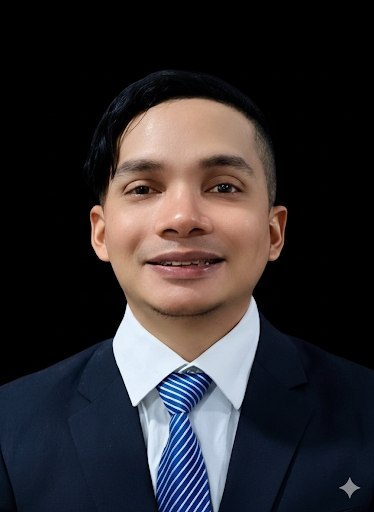
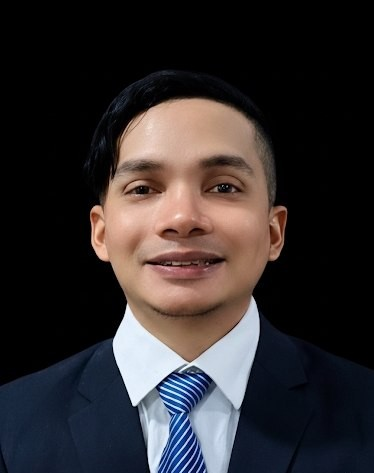
feat: vitaminizar Home con pestañas animadas, stack, trayectoria y perfil real

diff --git a/src/pages/Home.tsx b/src/pages/Home.tsx
@@ -1,141 +1,250 @@
-import React from 'react';
+import React, { useState, useEffect } from 'react';
 import ProjectCard from '../components/ProjectCard';
 import frontMatter from 'front-matter';
 import { useToast } from '../context/ToastContext';
 
-// 1. Vite lee TODOS los archivos .md en crudo (raw) de forma síncrona (eager)
+// Extraemos la data de los proyectos
 const mdFiles = import.meta.glob('../content/proyectos/*.md', { query: '?raw', eager: true });
-
-// 2. Transformamos esos archivos en un arreglo de objetos para React
 const projects = Object.entries(mdFiles).map(([path, module]: [string, any]) => {
-  // Extraemos el nombre del archivo para usarlo como ruta (ej: crm-core-api.md -> crm-core-api)
   const slug = path.split('/').pop()?.replace('.md', '');
-  
-  // Extraemos las variables que pusiste entre los "---" en el archivo .md
-  const { attributes } = frontMatter(module.default as string);
-
-  return {
-    slug,
-    ...(attributes as any) // Título, descripción, techStack, etc.
-  };
+  const { attributes } = frontMatter(module.default);
+  return { slug, ...(attributes as any) };
 });
 
 export default function Home() {
-  const { showToast } = useToast(); 
-  return (
-    <>
-      
+  const [activeTab, setActiveTab] = useState('Proyectos');
+  const { showToast } = useToast();
 
-      {/* MAIN CONTENT */}
-      <main className="w-full max-w-[800px] p-4 md:p-6 mt-16 px-6 mx-auto animate-page-enter">
-        
-        {/* HERO INFO */}
-        <section className="flex justify-between items-start w-full mb-6">
-          <div className="flex flex-col gap-0.5 min-w-0">
-            <h1 className="text-[20px] md:text-[24px] font-bold tracking-tight text-white leading-tight">
+  useEffect(() => {
+    window.scrollTo(0, 0);
+  }, []);
+
+  const tabs = ['Proyectos', 'Stack Técnico', 'Trayectoria', 'Formación'];
+
+  // --- RENDERIZADORES DE PESTAÑAS ---
+
+  const renderProyectos = () => (
+    <div className="grid grid-cols-1 md:grid-cols-2 gap-4">
+      {projects.map((project) => (
+        <ProjectCard 
+          key={project.slug}
+          title={project.title} 
+          description={project.description}
+          techStack={project.techStack || []}
+          slug={project.slug}
+          imageUrl={project.imageUrl}
+          wireframeType={project.wireframeType}
+        />
+      ))}
+    </div>
+  );
+
+  const renderStack = () => (
+    <div className="grid grid-cols-1 md:grid-cols-2 gap-6">
+      {/* Frontend */}
+      <div className="bg-zinc-900/30 border border-zinc-800/80 p-6 rounded-xl hover:border-zinc-700/80 transition-colors">
+        <h3 className="text-white font-semibold text-[14px] mb-4 flex items-center gap-2">
+          <svg className="text-blue-500" width="18" height="18" viewBox="0 0 24 24" fill="none" stroke="currentColor" strokeWidth="2"><polygon points="12 2 2 7 12 12 22 7 12 2"></polygon><polyline points="2 17 12 22 22 17"></polyline><polyline points="2 12 12 17 22 12"></polyline></svg>
+          Desarrollo Frontend
+        </h3>
+        <div className="flex flex-wrap gap-2">
+          {['JavaScript (ES6+)', 'React', 'Tailwind CSS', 'Vite', 'HTML5 & CSS3'].map(tech => (
+            <span key={tech} className="px-3 py-1.5 bg-zinc-800/50 border border-zinc-700/50 rounded-md text-[12px] text-zinc-300">{tech}</span>
+          ))}
+        </div>
+      </div>
+
+      {/* Backend & DB */}
+      <div className="bg-zinc-900/30 border border-zinc-800/80 p-6 rounded-xl hover:border-zinc-700/80 transition-colors">
+        <h3 className="text-white font-semibold text-[14px] mb-4 flex items-center gap-2">
+          <svg className="text-blue-500" width="18" height="18" viewBox="0 0 24 24" fill="none" stroke="currentColor" strokeWidth="2"><ellipse cx="12" cy="5" rx="9" ry="3"></ellipse><path d="M21 12c0 1.66-4 3-9 3s-9-1.34-9-3"></path><path d="M3 5v14c0 1.66 4 3 9 3s9-1.34 9-3V5"></path></svg>
+          Backend & Base de Datos
+        </h3>
+        <div className="flex flex-wrap gap-2">
+          {['Node.js', 'Express', 'PostgreSQL', 'Consultas Nativas (SQL)', 'API REST'].map(tech => (
+            <span key={tech} className="px-3 py-1.5 bg-zinc-800/50 border border-zinc-700/50 rounded-md text-[12px] text-zinc-300">{tech}</span>
+          ))}
+        </div>
+      </div>
+
+      {/* Herramientas */}
+      <div className="bg-zinc-900/30 border border-zinc-800/80 p-6 rounded-xl hover:border-zinc-700/80 transition-colors md:col-span-2">
+        <h3 className="text-white font-semibold text-[14px] mb-4 flex items-center gap-2">
+          <svg className="text-blue-500" width="18" height="18" viewBox="0 0 24 24" fill="none" stroke="currentColor" strokeWidth="2"><rect x="4" y="4" width="16" height="16" rx="2" ry="2"></rect><rect x="9" y="9" width="6" height="6"></rect><line x1="9" y1="1" x2="9" y2="4"></line><line x1="15" y1="1" x2="15" y2="4"></line><line x1="9" y1="20" x2="9" y2="23"></line><line x1="15" y1="20" x2="15" y2="23"></line><line x1="20" y1="9" x2="23" y2="9"></line><line x1="20" y1="14" x2="23" y2="14"></line><line x1="1" y1="9" x2="4" y2="9"></line><line x1="1" y1="14" x2="4" y2="14"></line></svg>
+          Infraestructura & OS
+        </h3>
+        <div className="flex flex-wrap gap-2">
+          {['Linux Ubuntu', 'Git', 'GitHub (Pages & Actions)', 'Moodle LMS', 'CPanel'].map(tech => (
+            <span key={tech} className="px-3 py-1.5 bg-zinc-800/50 border border-zinc-700/50 rounded-md text-[12px] text-zinc-300">{tech}</span>
+          ))}
+        </div>
+      </div>
+    </div>
+  );
+
+  const renderTrayectoria = () => (
+    <div className="relative border-l border-zinc-800 ml-3 pl-8 py-2 space-y-10">
+      
+      {/* Item 1 */}
+      <div className="relative">
+        <div className="absolute -left-[37px] top-1 w-[11px] h-[11px] rounded-full bg-blue-500 ring-4 ring-zinc-950"></div>
+        <h3 className="text-white font-bold text-[15px]">Desarrollador Web Freelance</h3>
+        <p className="text-blue-400 text-[12px] font-medium mb-3">Clinmedia & Newe Marketing • Remoto</p>
+        <p className="text-zinc-400 text-[14px] leading-relaxed">
+          Construcción, despliegue y gestión diaria de múltiples sitios web de alto volumen para agencias de marketing digital. Optimización de tiempos de entrega sin sacrificar semántica, rendimiento ni diseño responsivo.
+        </p>
+      </div>
+
+      {/* Item 2 */}
+      <div className="relative">
+        <div className="absolute -left-[37px] top-1 w-[11px] h-[11px] rounded-full bg-zinc-700 ring-4 ring-zinc-950"></div>
+        <h3 className="text-white font-bold text-[15px]">Analista de HelpDesk & Soporte TI</h3>
+        <p className="text-zinc-500 text-[12px] font-medium mb-3">Avior Airlines • Ene 2020 - Presente</p>
+        <p className="text-zinc-400 text-[14px] leading-relaxed">
+          Soporte técnico de misión crítica en entorno corporativo. Resolución de incidencias de infraestructura, mantenimiento de equipos y asistencia a usuarios garantizando la continuidad operativa de la aerolínea.
+        </p>
+      </div>
+
+      {/* Item 3 */}
+      <div className="relative">
+        <div className="absolute -left-[37px] top-1 w-[11px] h-[11px] rounded-full bg-zinc-800 ring-4 ring-zinc-950"></div>
+        <h3 className="text-white font-bold text-[15px]">Agente de Call Center</h3>
+        <p className="text-zinc-500 text-[12px] font-medium mb-3">Avior Airlines • Abr 2018 - Ene 2020</p>
+        <p className="text-zinc-400 text-[14px] leading-relaxed">
+          Atención directa al cliente y manejo de sistemas de reservas. Esta experiencia forjó mi entendimiento profundo de la operación interna antes de transicionar al departamento de TI en 2020.
+        </p>
+      </div>
+    </div>
+  );
+
+  const renderFormacion = () => (
+    <div className="space-y-6">
+      
+      <div className="flex gap-4 p-5 rounded-xl border border-zinc-800/60 bg-zinc-900/20 hover:bg-zinc-900/40 transition-colors">
+        <div className="hidden sm:flex mt-1 w-10 h-10 rounded-full bg-blue-500/10 border border-blue-500/20 items-center justify-center text-blue-400 shrink-0">
+          <svg width="18" height="18" viewBox="0 0 24 24" fill="none" stroke="currentColor" strokeWidth="2"><path d="M22 10v6M2 10l10-5 10 5-10 5z"></path><path d="M6 12v5c3 3 9 3 12 0v-5"></path></svg>
+        </div>
+        <div>
+          <h3 className="text-white font-bold text-[15px]">Máster en Full Stack Development</h3>
+          <p className="text-zinc-500 text-[12px] font-medium mb-2">Universidad Central de Venezuela (UCV) • Oct 2025</p>
+          <p className="text-zinc-400 text-[14px]">Titulación académica oficial validando competencias en arquitecturas frontend y backend, bases de datos y despliegue de aplicaciones.</p>
+        </div>
+      </div>
+
+      <div className="flex gap-4 p-5 rounded-xl border border-zinc-800/60 bg-zinc-900/20 hover:bg-zinc-900/40 transition-colors">
+        <div className="hidden sm:flex mt-1 w-10 h-10 rounded-full bg-zinc-800 border border-zinc-700 items-center justify-center text-zinc-400 shrink-0">
+          <svg width="18" height="18" viewBox="0 0 24 24" fill="none" stroke="currentColor" strokeWidth="2"><rect x="3" y="3" width="18" height="18" rx="2" ry="2"></rect><line x1="3" y1="9" x2="21" y2="9"></line><line x1="9" y1="21" x2="9" y2="9"></line></svg>
+        </div>
+        <div>
+          <h3 className="text-white font-bold text-[15px]">Ingeniería de Sistemas</h3>
+          <p className="text-zinc-500 text-[12px] font-medium mb-2">Titulación Profesional</p>
+          <p className="text-zinc-400 text-[14px]">Formación base en lógica de programación, arquitectura de computadores, cálculo y resolución algorítmica de problemas.</p>
+        </div>
+      </div>
+
+      <div className="flex gap-4 p-5 rounded-xl border border-zinc-800/60 bg-zinc-900/20 hover:bg-zinc-900/40 transition-colors">
+        <div className="hidden sm:flex mt-1 w-10 h-10 rounded-full bg-zinc-800 border border-zinc-700 items-center justify-center text-zinc-400 shrink-0">
+          <svg width="18" height="18" viewBox="0 0 24 24" fill="none" stroke="currentColor" strokeWidth="2"><circle cx="12" cy="12" r="10"></circle><polyline points="12 6 12 12 16 14"></polyline></svg>
+        </div>
+        <div>
+          <h3 className="text-white font-bold text-[15px]">Especializaciones & Bootcamps</h3>
+          <p className="text-zinc-500 text-[12px] font-medium mb-2">Educación Continua • 2025 - 2026</p>
+          <ul className="text-zinc-400 text-[13px] list-disc ml-4 space-y-1">
+            <li>Workana The Accelerator (Escalabilidad de negocios freelance - Mar 2026).</li>
+            <li>Masterclass Udemy: JavaScript Moderno & Especificaciones Avanzadas.</li>
+            <li>Masterclass Udemy: Node.js, React & Arquitecturas Web.</li>
+          </ul>
+        </div>
+      </div>
+
+    </div>
+  );
+
+  return (
+    <main className="w-full max-w-[800px] p-4 md:p-6 mt-16 px-6 mx-auto animate-page-enter">
+      
+      {/* SECCIÓN DE PERFIL Y BOTONES (Se mantiene igual) */}
+      <section className="mb-12">
+        <div className="flex flex-col md:flex-row md:items-center gap-6 md:gap-8 mb-6">
+          <div className="w-24 h-24 rounded-full overflow-hidden border-2 border-zinc-800 bg-zinc-900 flex-shrink-0 relative group">
+            <img 
+              src="https://github.com/luisjcm.png" 
+              alt="Luis Jesus Curbata" 
+              className="w-full h-full object-cover transition-transform duration-500 group-hover:scale-110"
+              onError={(e) => {
+                e.currentTarget.src = "https://ui-avatars.com/api/?name=Luis+Curbata&background=0D0D0E&color=3b82f6";
+              }}
+            />
+            <div className="absolute inset-0 ring-1 ring-inset ring-white/10 rounded-full"></div>
+          </div>
+          
+          <div className="flex flex-col">
+            <h1 className="text-3xl font-bold text-white tracking-tight mb-2">
               Luis Jesus Curbata
             </h1>
-            <div className="flex items-center gap-2 mt-1">
-              <span className="text-[15px] text-zinc-500">luisjcm</span>
-              <button className="group flex items-center gap-1.5 bg-blue-500/10 text-blue-400 text-[11px] px-2.5 py-0.5 rounded-full border border-blue-500/20 font-medium transition-all duration-300 ease-out hover:bg-blue-500/20 hover:border-blue-500/40 hover:scale-105 active:scale-95 active:bg-blue-500/30">
-                <span className="relative flex h-2 w-2">
-                  <span className="animate-ping absolute inline-flex h-full w-full rounded-full bg-blue-400 opacity-75"> </span>
-                  <span className="relative inline-flex rounded-full h-2 w-2 bg-blue-500"></span>
-                </span>
-                Disponible para Proyectos
-              </button>
-            </div>
-          </div>
-
-          <div className="w-[70px] h-[70px] md:w-[84px] md:h-[84px] rounded-full border border-zinc-800 overflow-hidden bg-zinc-900 flex-shrink-0">
-            <img src="/src/assets/perfil.jpg" alt="Luis Jesus" className="w-full h-full object-cover" />
-          </div>
-        </section>
-
-        {/* BIO & DATA */}
-        <section className="flex flex-col gap-1.5 mt-4 text-[14px]">
-          <div className="flex items-center gap-3 text-zinc-200">
-            <svg xmlns="http://www.w3.org/2000/svg" width="18" height="18" viewBox="0 0 24 24" fill="none" stroke="currentColor" strokeWidth="2" strokeLinecap="round" strokeLinejoin="round" className="text-zinc-500 flex-shrink-0"><circle cx="12" cy="12" r="10"/><path d="M2 12h20"/><path d="M12 2a15.3 15.3 0 0 1 4 10 15.3 15.3 0 0 1-4 10 15.3 15.3 0 0 1-4-10 15.3 15.3 0 0 1 4-10z"/></svg>
-            <p>Venezolano</p>
-          </div>
-          <div className="flex items-center gap-3 text-zinc-200">
-            <svg xmlns="http://www.w3.org/2000/svg" width="18" height="18" viewBox="0 0 24 24" fill="none" stroke="currentColor" strokeWidth="2" strokeLinecap="round" strokeLinejoin="round" className="text-zinc-500 flex-shrink-0"><polyline points="16 18 22 12 16 6"/><polyline points="8 6 2 12 8 18"/></svg>
-            <p>Ingeniero de Sistemas + Desarrollador Web Freelance</p>
-          </div>
-          <div className="flex items-start gap-3 text-zinc-200">
-            <svg xmlns="http://www.w3.org/2000/svg" width="18" height="18" viewBox="0 0 24 24" fill="none" stroke="currentColor" strokeWidth="2" strokeLinecap="round" strokeLinejoin="round" className="text-zinc-500 flex-shrink-0 mt-1"><rect width="20" height="14" x="2" y="3" rx="2"/><line x2="2" x1="22" y2="20" y1="20"/></svg>
-            <p className="leading-relaxed flex-1">
-              Analista de HelpDesk y Soporte Técnico IT en Avior Airlines
-            </p>
-          </div>
-          <div className="flex items-center gap-3 text-zinc-200">
-            <svg xmlns="http://www.w3.org/2000/svg" width="18" height="18" viewBox="0 0 24 24" fill="none" stroke="currentColor" strokeWidth="2" strokeLinecap="round" strokeLinejoin="round" className="text-zinc-500 flex-shrink-0"><path d="m13 2-2 10h8l-2 10"/></svg>
-            <p>Apasionado por crear experiencias web modernas y eficientes, mientras me encuentro en constante aprendizaje para mejorar mis habilidades.</p>
-          </div>
-          <div className="flex items-center gap-4 text-zinc-400 text-[13px] leading-relaxed ml-1 antialiased tracking-wide mt-1">
-            <div className="flex items-center gap-2 group/loc transition-colors hover:text-zinc-300">
-              <svg width="14" height="14" viewBox="0 0 24 24" fill="none" stroke="currentColor" strokeWidth="2" className="text-zinc-500 group-hover/loc:text-blue-400 transition-colors"><path d="M21 10c0 7-9 13-9 13s-9-6-9-13a9 9 0 0 1 18 0z"/><circle cx="12" cy="10" r="3"/></svg>
-              <span>Barcelona, VZ • <span className="opacity-70">GMT-4</span></span>
-            </div>
-          </div>
-        </section>
-
-        {/* BUTTONS */}
-        <div className="flex flex-col gap-6 mt-8">
-          <div className="flex items-center gap-3">
-            <a href="https://wa.me/584248887150?text=Hola%20Luis,%20vi%20tu%20portafolio%20y%20me%20gustaría%20contactarte" target="_blank" rel="noopener noreferrer" className="group relative flex-1 max-w-[180px] py-2.5 bg-white/5 border border-white/10 rounded-[10px] font-semibold text-white text-[13px] overflow-hidden transition-all duration-300 hover:border-blue-500/50 hover:bg-blue-500/5 text-center backdrop-blur-sm active:scale-95 no-underline">
-              <div className="absolute inset-0 bg-gradient-to-r from-transparent via-blue-400/20 to-transparent -translate-x-full group-hover:translate-x-full transition-transform duration-1000"></div>
-              <span className="relative flex items-center justify-center gap-2">
-                <svg width="14" height="14" viewBox="0 0 24 24" fill="none" stroke="currentColor" strokeWidth="2.5" className="text-blue-400"><path d="M22 16.92v3a2 2 0 0 1-2.18 2 19.79 19.79 0 0 1-8.63-3.07 19.5 19.5 0 0 1-6-6 19.79 19.79 0 0 1-3.07-8.67A2 2 0 0 1 4.11 2h3a2 2 0 0 1 2 1.72 12.84 12.84 0 0 0 .7 2.81 2 2 0 0 1-.45 2.11L8.09 9.91a16 16 0 0 0 6 6l1.27-1.27a2 2 0 0 1 2.11-.45 12.84 12.84 0 0 0 2.81.7A2 2 0 0 1 22 16.92z"/></svg>
-                Contactar
+            <div className="flex flex-wrap items-center gap-3 text-sm text-zinc-400">
+              <span className="flex items-center gap-1.5 bg-zinc-900/50 px-2 py-1 rounded-md border border-zinc-800/80">
+                <span className="w-1.5 h-1.5 rounded-full bg-blue-500 animate-pulse"></span>
+                @luisjcm
               </span>
-            </a>
-
-            <button className="group flex-1 max-w-[150px] py-2.5 bg-zinc-900/50 border border-zinc-800 rounded-[10px] font-medium text-zinc-400 text-[10px] transition-all duration-300 hover:border-zinc-600 hover:bg-zinc-800 hover:text-white active:scale-95 flex items-center justify-center gap-2" onClick={() => showToast("El currículum estará disponible pronto. ¡En construcción!", "warning")}>
-              <svg width="14" height="14" viewBox="0 0 24 24" fill="none" stroke="currentColor" strokeWidth="2.5" strokeLinecap="round" strokeLinejoin="round" className="text-zinc-500 group-hover:text-white transition-colors"><path d="M14 2H6a2 2 0 0 0-2 2v16a2 2 0 0 0 2 2h12a2 2 0 0 0 2-2V8z"></path><polyline points="14 2 14 8 20 8"></polyline><line x1="16" y1="13" x2="8" y2="13"></line><line x1="16" y1="17" x2="8" y2="17"></line><polyline points="10 9 9 9 8 9"></polyline></svg>
-              <span>Descargar CV</span>
-            </button>
-
-            <div className="flex gap-2">
-              <a href="https://linkedin.com/in/luisjcm" target="_blank" title="LinkedIn Profesional" rel="noopener noreferrer" className="p-2.5 bg-white/5 border border-white/10 rounded-[10px] text-zinc-400 hover:text-white hover:border-white/20 transition-all active:scale-90">
-                <svg width="18" height="18" viewBox="0 0 24 24" fill="none" stroke="currentColor" strokeWidth="2"><path d="M16 8a6 6 0 0 1 6 6v7h-4v-7a2 2 0 0 0-2-2 2 2 0 0 0-2 2v7h-4v-7a6 6 0 0 1 6-6z"/><rect x="2" y="9" width="4" height="12"/><circle cx="4" cy="4" r="2"/></svg>
-              </a>
-              <a href="https://github.com/luisjcm" target="_blank" title="GitHub Repositorios" rel="noopener noreferrer" className="p-2.5 bg-white/5 border border-white/10 rounded-[10px] text-zinc-400 hover:text-white hover:border-white/20 transition-all active:scale-90">
-                <svg width="18" height="18" viewBox="0 0 24 24" fill="none" stroke="currentColor" strokeWidth="2"><path d="M9 19c-5 1.5-5-2.5-7-3m14 6v-3.87a3.37 3.37 0 0 0-.94-2.61c3.14-.35 6.44-1.54 6.44-7A5.44 5.44 0 0 0 20 4.77 5.07 5.07 0 0 0 19.91 1S18.73.65 16 2.48a13.38 13.38 0 0 0-7 0C6.27.65 5.09 1 5.09 1A5.07 5.07 0 0 0 5 4.77a5.44 5.44 0 0 0-1.5 3.78c0 5.42 3.3 6.61 6.44 7A3.37 3.37 0 0 0 9 18.13V22"/></svg>
-              </a>
+              <span className="hidden md:block text-zinc-700">•</span>
+              <span className="flex items-center gap-1.5">
+                <svg width="14" height="14" viewBox="0 0 24 24" fill="none" stroke="currentColor" strokeWidth="2"><path d="M21 10c0 7-9 13-9 13s-9-6-9-13a9 9 0 0 1 18 0z"></path><circle cx="12" cy="10" r="3"></circle></svg>
+                Barcelona, VZ
+              </span>
+              <span className="hidden md:block text-zinc-700">•</span>
+              <span className="flex items-center gap-1.5">
+                <svg width="14" height="14" viewBox="0 0 24 24" fill="none" stroke="currentColor" strokeWidth="2"><rect x="2" y="3" width="20" height="14" rx="2" ry="2"></rect><line x1="8" y1="21" x2="16" y2="21"></line><line x1="12" y1="17" x2="12" y2="21"></line></svg>
+                6 Años Experiencia TI
+              </span>
             </div>
           </div>
         </div>
 
-        {/* NAVIGATION TABS */}
-        <nav className="flex w-full mt-8 border-b border-zinc-800">
-          <button className="flex-1 pb-3 text-[12px] md:text-[15px] font-semibold text-white border-b border-white whitespace-nowrap">Proyectos</button>
-          <button className="flex-1 pb-3 text-[12px] md:text-[15px] font-semibold text-zinc-500 hover:text-zinc-300 transition-colors whitespace-nowrap">Stack Técnico</button>
-          <button className="flex-1 pb-3 text-[12px] md:text-[15px] font-semibold text-zinc-500 hover:text-zinc-300 transition-colors whitespace-nowrap">Trayectoria</button>
-          <button className="flex-1 pb-3 text-[12px] md:text-[15px] font-semibold text-zinc-500 hover:text-zinc-300 transition-colors whitespace-nowrap">Formación</button>
-        </nav>
+        <p className="text-zinc-400 text-[15px] leading-relaxed max-w-2xl mb-8">
+          Ingeniero de Sistemas y Desarrollador Web. Fusionando el rigor operativo del soporte técnico de misión crítica con la creación de interfaces escalables y arquitecturas backend en el ecosistema JavaScript.
+        </p>
 
-        {/* CONTENT WRAPPER */}
-        <div className="relative w-full mt-8 overflow-hidden">
-          <div className="w-full px-2">
-             {/* Grid de Proyectos Dinámico */}
-             <div className="grid grid-cols-1 md:grid-cols-2 gap-4">
-                {projects.map((project) => (
-                  <ProjectCard 
-                    key={project.slug}
-                    title={project.title} 
-                    description={project.description}
-                    techStack={project.techStack || []}
-                    slug={project.slug}
-                    imageUrl={project.imageUrl}
-                    wireframeType={project.wireframeType}
-                  />
-                ))}
-             </div>
-          </div>
+        <div className="flex items-center gap-3">
+          <a href="/contacto" className="px-5 py-2.5 bg-white text-black font-semibold text-[13px] rounded-lg hover:bg-zinc-200 transition-colors active:scale-95 flex items-center gap-2">
+            Contactar
+          </a>
+          <button 
+            onClick={() => showToast("El currículum estará disponible pronto. ¡En construcción!", "warning")}
+            className="px-5 py-2.5 bg-zinc-900/50 border border-zinc-800 text-zinc-300 font-semibold text-[13px] rounded-lg hover:bg-zinc-800 hover:text-white transition-colors active:scale-95 flex items-center gap-2"
+          >
+            Descargar CV
+          </button>
         </div>
-      </main>
+      </section>
 
-    </>
+      {/* TABS DE NAVEGACIÓN */}
+      <nav className="flex gap-6 border-b border-zinc-800/80 mb-8 overflow-x-auto scrollbar-hide">
+        {tabs.map((tab) => (
+          <button
+            key={tab}
+            onClick={() => setActiveTab(tab)}
+            className={`pb-4 text-[13px] font-medium transition-all relative whitespace-nowrap ${
+              activeTab === tab ? 'text-white' : 'text-zinc-500 hover:text-zinc-300'
+            }`}
+          >
+            {tab}
+            {activeTab === tab && (
+              <span className="absolute bottom-0 left-0 w-full h-[2px] bg-blue-500 rounded-t-full"></span>
+            )}
+          </button>
+        ))}
+      </nav>
+
+      {/* CONTENIDO DINÁMICO CON ANIMACIÓN SUAVE */}
+      {/* El 'key' obliga a React a remontar el div y reiniciar la animación CSS */}
+      <div key={activeTab} className="animate-page-enter" style={{ animationDuration: '0.5s' }}>
+        {activeTab === 'Proyectos' && renderProyectos()}
+        {activeTab === 'Stack Técnico' && renderStack()}
+        {activeTab === 'Trayectoria' && renderTrayectoria()}
+        {activeTab === 'Formación' && renderFormacion()}
+      </div>
+
+    </main>
   );
 }
